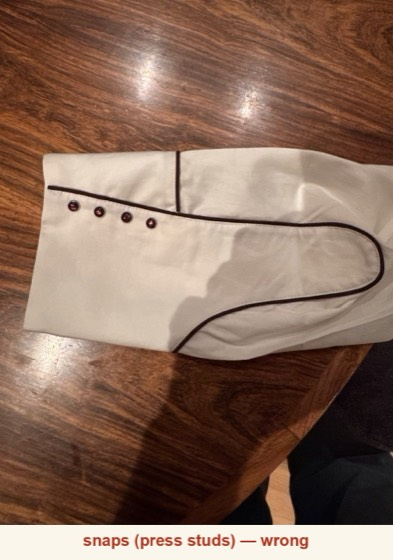
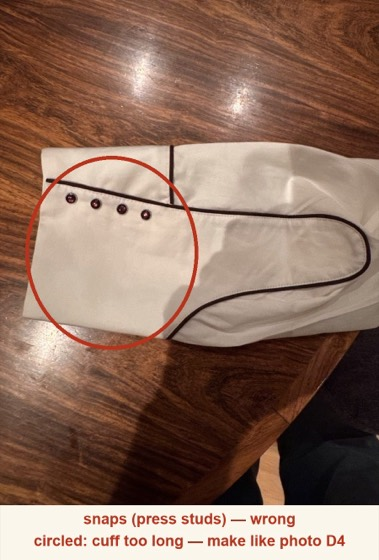
Add D4 cuff-length reference; F21 calls out cuff too long

diff --git a/index.html b/index.html
@@ -333,8 +333,9 @@ const PHOTOS = {
   T1: ['T1', T+'costume-03.jpg', 'Front of the original costume.', 'good'],
   T4: ['T4', T+'costume-01.jpg', 'Back: yoke piping; each cuff has 4 brown buttons.', 'good'],
   T7: ['T7', T+'propstore-full-costume.jpg', 'The full costume.', 'good'],
+  D4: ['D4', T+'cuff-length-detail.jpg', 'The correct cuff length on the original — copy this length. Version 1 cuffs were too long.', 'good', 'fit'],
   T8: ['T8', T+'scruggs-still-shoulders.jpg', 'From the movie: on each shoulder, the piping makes a small, tight curl close to the seam.', 'good', 'fit'],
-  F21: ['F21', I+'crop-cuff-snaps.jpg', 'Cuff closed with snaps (press studs) — wrong. Version 2: 4 working buttons with buttonholes.', 'bad', 'fit'],
+  F21: ['F21', I+'crop-cuff-snaps.jpg', 'Cuff closed with snaps (press studs) — wrong, and the cuff is too long. Version 2: 4 working buttons, shorter cuff like photo D4.', 'bad', 'fit'],
   F22: ['F22', I+'crop-inside-snaps.jpg', 'Metal snaps inside the placket and cuff — wrong. No snaps anywhere on Version 2.', 'bad', 'fit'],
   F14: ['F14', I+'crop-pockets-wrong.jpg', 'Pockets sewn flat with arrow ends — wrong. Make a small open gap and pointed ends (photo D3).', 'bad', 'fit'],
   F7: ['F7', I+'crop-sleeve-long.jpg', 'Sleeve about 29″ — too long. Version 2: 26½″ from the attachment seam.', 'bad', 'fit'],
@@ -354,8 +355,8 @@ const FIXES = [
   },
   {
     title: 'Shotgun cuffs (tall cuffs with a long buttoned opening): 4 working buttons, correct length',
-    body: 'Each cuff needs <strong>4 working brown buttons with buttonholes</strong> — no snaps. Make the <strong>cuff length match these photos</strong>, with the 4 buttons <strong>spaced evenly along the piped opening</strong>.',
-    photos: ['D2', 'T5'],
+    body: 'Each cuff needs <strong>4 working brown buttons with buttonholes</strong> — no snaps (press studs). The Version-1 cuffs were <strong>too long</strong>: make the <strong>cuff length match photo D4</strong>, with the 4 buttons <strong>spaced evenly along the piped opening</strong>.',
+    photos: ['D2', 'D4', 'T5'],
   },
   {
     title: 'Smile pockets (curved welt pockets): slightly open, plain pointed ends',
@@ -390,7 +391,7 @@ document.getElementById('fix-cards').innerHTML = FIXES.map((f, i) => `
   </article>`).join('');
 
 // ---------- lightbox with zoom ----------
-const ORDER = ['M6', 'M5', 'M10', 'M7', 'M1', 'M4', 'M2', 'M8', 'D1', 'D2', 'T5', 'D3', 'T3', 'T2', 'T8', 'T1', 'T4', 'T7', 'F7', 'F12', 'F10', 'F14', 'F21', 'F22'];
+const ORDER = ['M6', 'M5', 'M10', 'M7', 'M1', 'M4', 'M2', 'M8', 'D1', 'D2', 'D4', 'T5', 'D3', 'T3', 'T2', 'T8', 'T1', 'T4', 'T7', 'F7', 'F12', 'F10', 'F14', 'F21', 'F22'];
 const lb = document.getElementById('lb'), lbImg = document.getElementById('lbImg'),
       lbCap = document.getElementById('lbCap'), lbScroll = document.getElementById('lbScroll');
 let cur = 0;